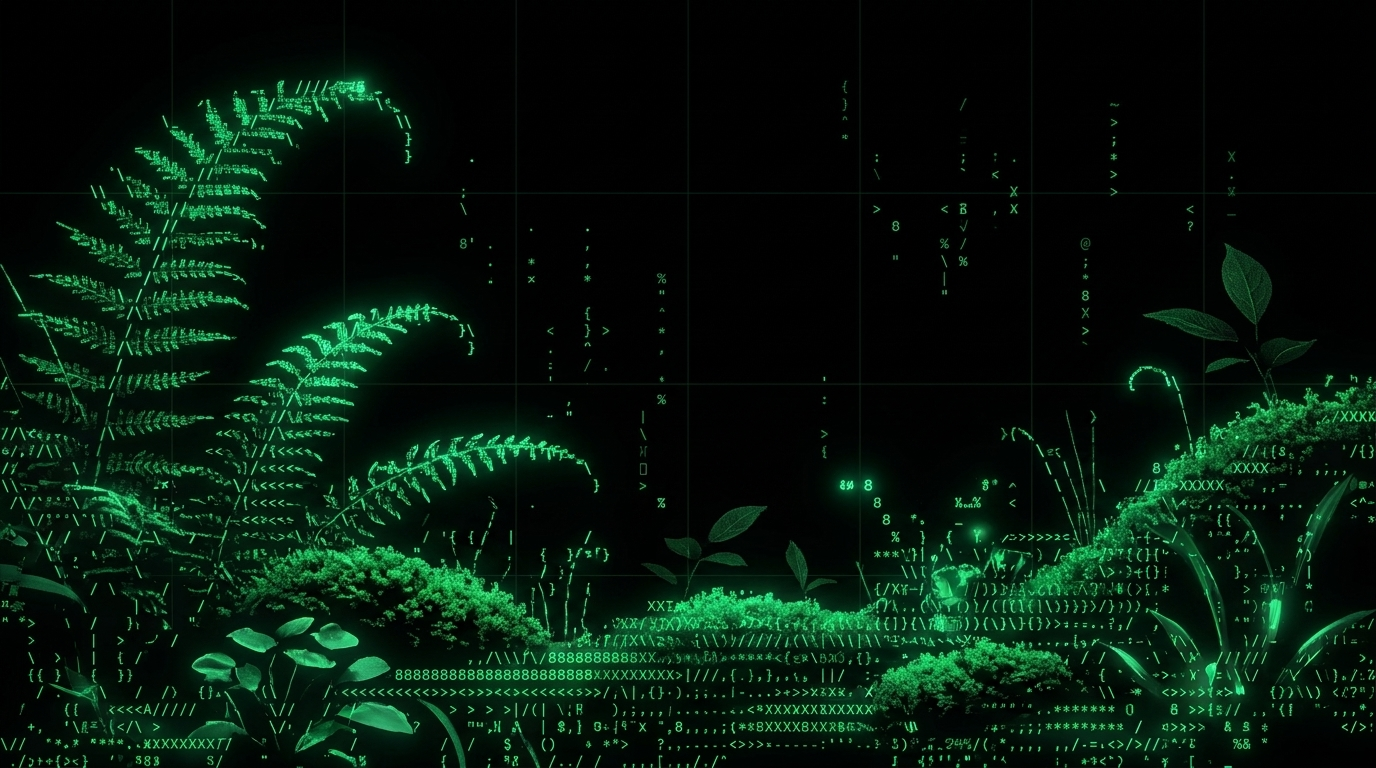
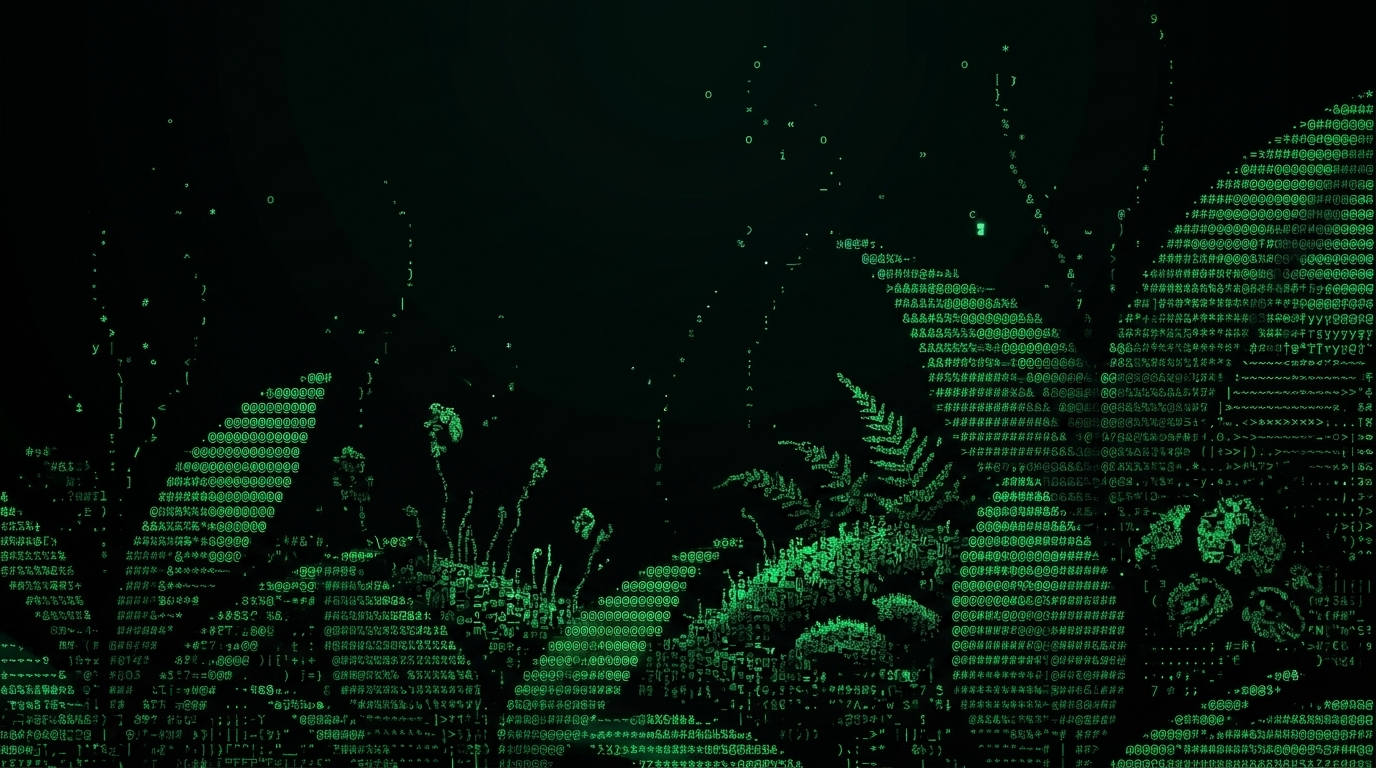
Add one-shot hero background video to service landing pages.
Play the ASCII vegetation clip on load for digitalização with fundo.jpeg as poster, without looping after playback ends.

diff --git a/src/app/(public)/servicos/[slug]/_components/HeroBackgroundVideo.tsx b/src/app/(public)/servicos/[slug]/_components/HeroBackgroundVideo.tsx
@@ -1,0 +1,53 @@
+"use client";
+
+import { useEffect, useRef } from "react";
+
+type HeroBackgroundVideoProps = {
+  src: string;
+  poster?: string;
+};
+
+export default function HeroBackgroundVideo({
+  src,
+  poster,
+}: HeroBackgroundVideoProps) {
+  const videoRef = useRef<HTMLVideoElement>(null);
+
+  useEffect(() => {
+    const video = videoRef.current;
+    if (!video) return;
+
+    video.muted = true;
+    video.defaultMuted = true;
+    video.playsInline = true;
+    video.loop = false;
+
+    const play = () => {
+      void video.play().catch(() => {});
+    };
+
+    const onLoaded = () => play();
+
+    video.addEventListener("loadedmetadata", onLoaded);
+
+    if (video.readyState >= 1) play();
+
+    return () => {
+      video.removeEventListener("loadedmetadata", onLoaded);
+    };
+  }, [src]);
+
+  return (
+    <video
+      ref={videoRef}
+      className="slp-hero__video"
+      src={src}
+      autoPlay
+      muted
+      playsInline
+      preload="auto"
+      poster={poster}
+      aria-hidden
+    />
+  );
+}

diff --git a/src/app/(public)/servicos/[slug]/_components/service-landing.css b/src/app/(public)/servicos/[slug]/_components/service-landing.css
@@ -304,7 +304,7 @@
   padding-bottom: clamp(2rem, 4vw, 3rem);
 }
 
-.slp-hero--image {
+.slp-hero--media {
   position: relative;
   isolation: isolate;
   overflow: hidden;
@@ -314,7 +314,18 @@
   padding-bottom: clamp(3rem, 6vw, 4.5rem);
 }
 
-.slp-hero--image::before {
+.slp-hero__video {
+  position: absolute;
+  inset: 0;
+  z-index: 0;
+  width: 100%;
+  height: 100%;
+  object-fit: cover;
+  object-position: center bottom;
+  pointer-events: none;
+}
+
+.slp-hero--media:not(.slp-hero--video)::before {
   content: "";
   position: absolute;
   inset: 0;
@@ -325,7 +336,7 @@
   background-repeat: no-repeat;
 }
 
-.slp-hero--image::after {
+.slp-hero--media::after {
   content: "";
   position: absolute;
   inset: 0;
@@ -351,7 +362,7 @@
   width: 100%;
 }
 
-.slp-hero--image .slp-wrap {
+.slp-hero--media .slp-wrap {
   position: relative;
   z-index: 2;
 }
@@ -360,7 +371,7 @@
   max-width: 42rem;
 }
 
-.slp-hero--image .slp-hero__content {
+.slp-hero--media .slp-hero__content {
   max-width: 52rem;
 }
 
@@ -368,7 +379,7 @@
   width: 100%;
 }
 
-.slp-hero--image .slp-hero__inner {
+.slp-hero--media .slp-hero__inner {
   display: flex;
   flex-direction: column;
   align-items: center;
@@ -390,7 +401,7 @@
   box-shadow: 3px 3px 0 var(--slp-shadow);
 }
 
-.slp-hero--image .slp-hero__badge {
+.slp-hero--media .slp-hero__badge {
   margin-bottom: 1.75rem;
 }
 
@@ -402,7 +413,7 @@
   max-width: 18ch;
 }
 
-.slp-hero--image .slp-hero__headline {
+.slp-hero--media .slp-hero__headline {
   max-width: 24ch;
   margin-inline: auto;
   text-align: center;
@@ -418,7 +429,7 @@
   color: var(--slp-muted);
 }
 
-.slp-hero--image .slp-hero__sub {
+.slp-hero--media .slp-hero__sub {
   margin-top: 1.5rem;
   max-width: 44ch;
   margin-inline: auto;
@@ -436,7 +447,7 @@
   color: rgba(242, 240, 235, 0.5);
 }
 
-.slp-hero--image .slp-hero__proof {
+.slp-hero--media .slp-hero__proof {
   margin-top: 1.35rem;
   text-align: center;
   color: rgba(242, 240, 235, 0.58);
@@ -451,7 +462,7 @@
   margin-top: 2rem;
 }
 
-.slp-hero--image .slp-hero__actions {
+.slp-hero--media .slp-hero__actions {
   justify-content: center;
   gap: 1rem;
   margin-top: 2.35rem;
@@ -472,7 +483,7 @@
     gap: 0.6rem;
   }
 
-  .slp-hero--image .slp-hero__actions {
+  .slp-hero--media .slp-hero__actions {
     flex-wrap: wrap;
     justify-content: center;
   }
@@ -487,7 +498,7 @@
     padding: 0.85rem 1rem;
   }
 
-  .slp-hero--image .slp-hero__headline {
+  .slp-hero--media .slp-hero__headline {
     max-width: 20ch;
     font-size: clamp(1.85rem, 8vw, 2.5rem);
   }

diff --git a/src/app/(public)/servicos/[slug]/_components/ServiceLandingPage.tsx b/src/app/(public)/servicos/[slug]/_components/ServiceLandingPage.tsx
@@ -4,6 +4,7 @@ import { useRef, type CSSProperties, type ReactNode } from "react";
 import { cn } from "@/lib/utils";
 import Link from "next/link";
 import ServiceLandingMenu from "./ServiceLandingMenu";
+import HeroBackgroundVideo from "./HeroBackgroundVideo";
 import { DotGothic16, Press_Start_2P } from "next/font/google";
 import { useGSAP } from "@gsap/react";
 import gsap from "gsap";
@@ -171,7 +172,7 @@ export default function ServiceLandingPage({ data }: Props) {
         "slp",
         fontDisplay.variable,
         fontPixel.variable,
-        data.hero.backgroundImage && "slp--hero-image",
+        (data.hero.backgroundVideo || data.hero.backgroundImage) && "slp--hero-image",
       )}
     >
       <div className="slp__scanlines" aria-hidden />
@@ -186,10 +187,11 @@ export default function ServiceLandingPage({ data }: Props) {
         id="inicio"
         className={cn(
           "slp-section slp-hero",
-          data.hero.backgroundImage && "slp-hero--image",
+          (data.hero.backgroundVideo || data.hero.backgroundImage) && "slp-hero--media",
+          data.hero.backgroundVideo && "slp-hero--video",
         )}
         style={
-          data.hero.backgroundImage
+          data.hero.backgroundImage && !data.hero.backgroundVideo
             ? ({
                 "--slp-hero-bg": `url("${data.hero.backgroundImage}")`,
               } as CSSProperties)
@@ -197,6 +199,12 @@ export default function ServiceLandingPage({ data }: Props) {
         }
         aria-labelledby="slp-hero-title"
       >
+        {data.hero.backgroundVideo ? (
+          <HeroBackgroundVideo
+            src={data.hero.backgroundVideo}
+            poster={data.hero.backgroundImage}
+          />
+        ) : null}
         <div className="slp-wrap slp-hero__content">
           <div className="slp-hero__inner" data-slp-reveal>
             <span className="slp-hero__badge">{data.hero.badge}</span>

diff --git a/src/types/service-landing.ts b/src/types/service-landing.ts
@@ -20,8 +20,10 @@ export type ServiceLandingPage = {
     secondaryCta: string;
     terminalLabel: string;
     terminalLines: string[];
-    /** Caminho público da imagem de fundo do hero (ex. /fundo.jpeg) */
+    /** Caminho público da imagem de fundo ou poster do vídeo (ex. /fundo.jpeg) */
     backgroundImage?: string;
+    /** Caminho público do vídeo de fundo do hero (ex. /video.mp4) */
+    backgroundVideo?: string;
   };
   trustBar: string[];
   problem: {

diff --git a/src/lib/data/service-landings/digitalizacao.ts b/src/lib/data/service-landings/digitalizacao.ts
@@ -23,6 +23,7 @@ export const digitalizacaoLanding: ServiceLandingPage = {
     primaryCta: "Falar no WhatsApp",
     secondaryCta: "Ver como funciona",
     backgroundImage: "/fundo.jpeg",
+    backgroundVideo: "/ASCII_vegetation_growing_digitally_202606062000.mp4",
     terminalLabel: "PRESENCE.STATUS",
     terminalLines: [
       "$ patrimonio_digital ........ em construção",